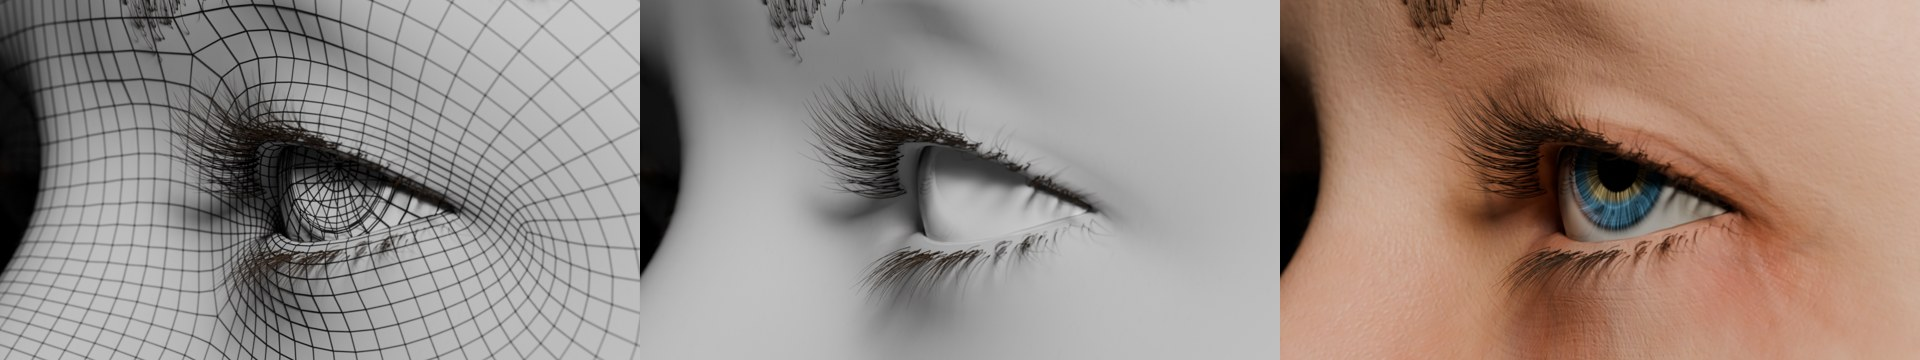
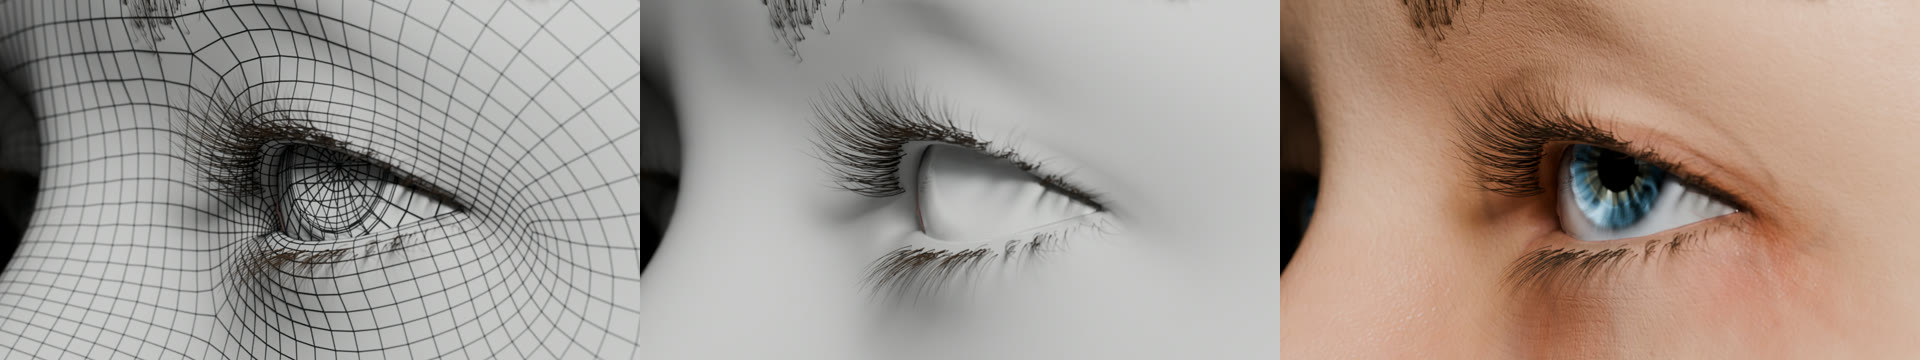
docs: rebuild overview images from a script, re-run audits, correct hair count

diff --git a/docs/DECK_OUTLINE.md b/docs/DECK_OUTLINE.md
@@ -6,7 +6,7 @@ Ten slides, ordered by the rubric: textures 60, kinematics 20, portability 20, b
 2. **The brief in one line, and our answer.** Eight texture sets with distinct left/right irises that wrap onto any GNM head; one command renders Left / Right / Generate Motion with physiologically timed eyes, lids, lashes and brows. Table: required output → where it is in the repo.
 3. **Textures: eight people.** `docs/texture_sets.jpg` and `docs/hero_sets.jpg`. Light and dark skin, young to old, six eye colours. Left and right iris always differ.
 4. **Textures: how the skin was made.** GNM ships no texture. MakeHuman's public-domain skins are fitted onto GNM in 3D: median fit error 0.5 mm, eyelid edges and lip line pinned (`tools/transfer_skin.py`). UV sheet from `uv_maps/`.
-5. **Textures: the eye itself.** Iris fibres, collarette, furrows, freckles, limbal ring; refracting cornea; veined sclera; wet lid edge and tear line; 9,900 hair strands (lashes, brows, facial down). Close-up crops.
+5. **Textures: the eye itself.** Iris fibres, collarette, furrows, freckles, limbal ring; refracting cornea; veined sclera; wet lid edge and tear line; about 7,500 hair strands (lashes, brows, facial down; `tools/make_hair.py` prints 7,458). Close-up crops.
 6. **No seams, measured.** `tools/seam_audit.py`: 142 seam edges checked on every set, front-of-face colour step ≤ 6 of 255. The audit caught two real regressions during the build.
 7. **Kinematics.** Table from `tools/evaluate_motion.py`: saccade duration, blink timing and rate, vergence, each against its published range. Direction check 5/5 from projected pupil positions (`wrapper/eyes.py`).
 8. **Soft tissue (brownie points).** The eye sits in a socket; lids lift over the cornea (it cut 1.5 mm into the lid before); skin near the lid drags up to 1.4 mm with the eye; lashes follow. Wire / clay / final strip (`docs/breakdown.jpg`), frames from the wireframe video.

diff --git a/TASKS.md b/TASKS.md
@@ -36,6 +36,12 @@ Status: `todo` / `in progress (owner)` / `done (commit)`. Owners: **A** rig + mo
 
 ---
 ## Handoff notes (newest on top)
+### 14 Nov, 02:50 — audits re-run, overview images rebuilt
+- Seam audit passes (front step ≤ 6 of 255 on all 8 sets), motion evaluation passes (every sourced row in range), 14 tests pass.
+- New `tools/overview.sh` joins the stills into `docs/texture_sets.jpg`, `docs/hero_sets.jpg`, `docs/breakdown.jpg`; added as the last line of `reproduce.sh`.
+- Hair count corrected in the deck outline (7,458, was 9,900) and self audit.
+- Seen in the stills, not fixed: sets 03 and 08 (dark skin) show a grey patch under the eye on the lit side in the front view; set 07 (old skin) looks blotchy orange in the hero view.
+- Next: decide on those two, commit `textures/`, deck, demo video.
 ### 13 Nov night — final renders; black-eye bug found and fixed
 - Final Left and Right (9 s each), stills for all 8 sets, wire/clay stills, portability proofs, launch-spec sequence, `.blend` and wireframe video are done and committed.
 - Bug: in both final Generate Motion videos the eyes rendered solid black from about frame 185 on. The same frame rendered alone was correct, so the cause was Cycles' persistent data going stale over a long sequential run. Persistent data is now off in `render.py`; frames 175+ of both Generate Motion videos were deleted and re-rendered. Checked 14 Nov 02:25: both videos 360 frames, one frame every 0.5 s viewed, eyes correct to the end; crow's-feet wrinkles show on blinks in the hero view.

diff --git a/docs/SELF_AUDIT.md b/docs/SELF_AUDIT.md
@@ -10,7 +10,7 @@ Eight scripted texture sets with distinct left/right irises wrap onto any GNM he
 |---|---|---|
 | Iris detail | good | wavy fibres, collarette, furrows, limbal ring, refracting cornea; left ≠ right |
 | Sclera | fair | veins, corner darkening; no blood-vessel depth, uniform wetness |
-| Lashes, brows, wet lid edge | good | 2,800 strands, tear bead, follow the lids |
+| Lashes, brows, wet lid edge | good | about 3,000 strands, tear bead, follow the lids |
 | Skin colour | good (was weak) | photo-based: MakeHuman CC0 skins transferred in 3D (D-015); young, middle-aged and old, light and dark |
 | Skin micro-detail | fair | pores and creases as bump; no real wrinkle direction, no lid crease |
 | Seams | good, measured | `tools/seam_audit.py`: front-of-face step ≤ 6/255 |
